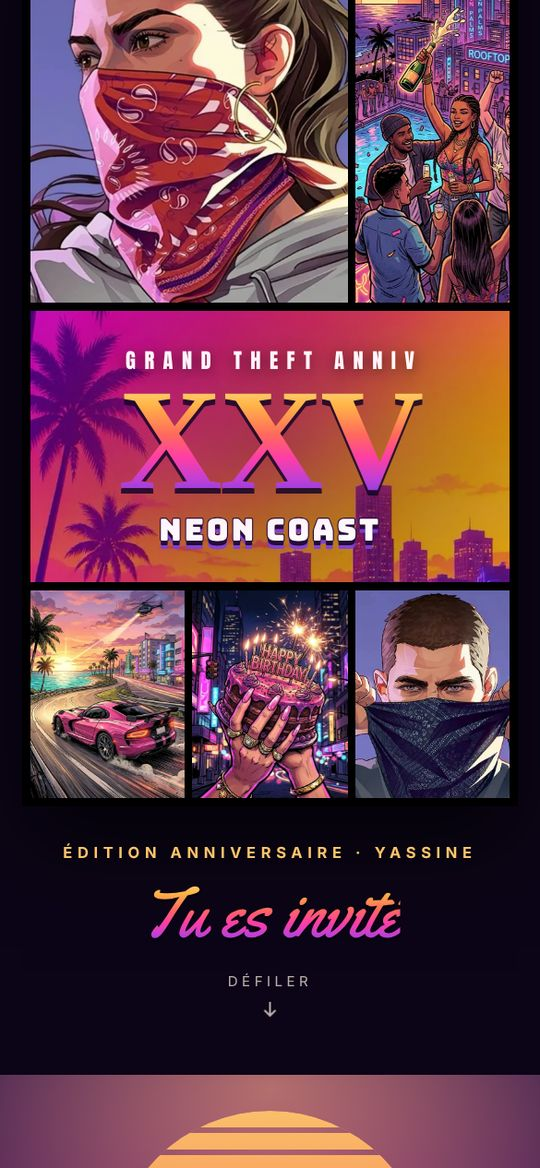
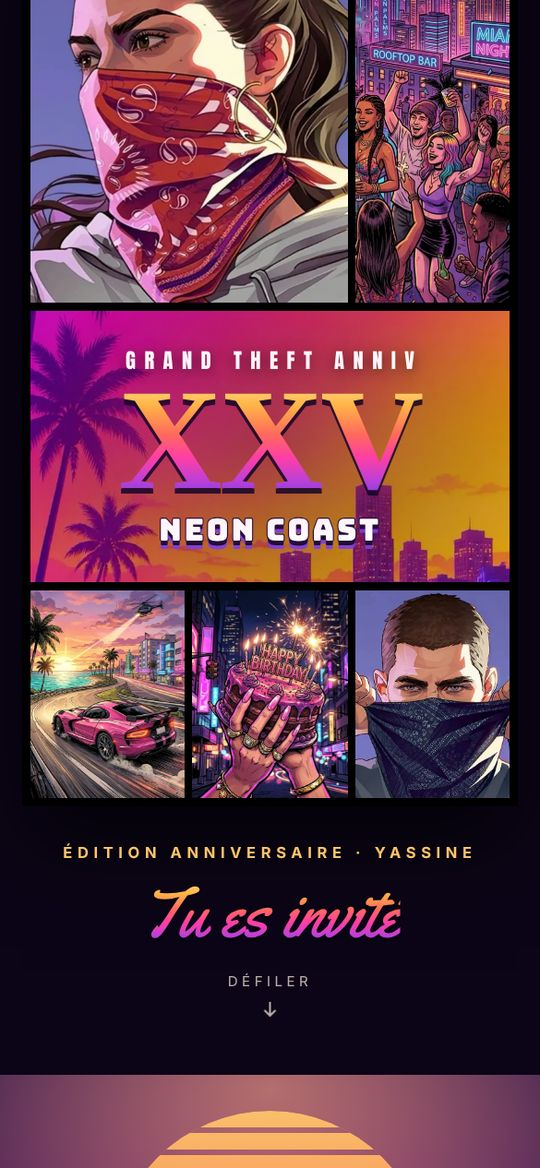
Neon Coast : bouteille retirée de la main de la femme (image de la fête recadrée)
Claude-Session: https://claude.ai/code/session_01JHbHXdBUaR2CiA6VEWaRD1

Changed region(s): [[0.6519, 0.0, 0.9481, 0.2774]]

diff --git a/templates/neon-coast.html b/templates/neon-coast.html
@@ -326,7 +326,7 @@ textarea.fld{min-height:84px;resize:vertical}
 <section class="scene" id="cover">
   <div class="mosaic" id="mosaic">
     <div class="pn b"><img src="/media/x/ddf686a85dc6c8.webp" alt="Illustration d'une femme au bandana rouge"></div>
-    <div class="pn p"><img src="/media/x/fbc256f7a50667.webp" alt="Fête sur un rooftop au néon" style="object-position:40% 50%"></div>
+    <div class="pn p"><img src="/media/x/e284c6a89f2a88.webp" alt="Fête sur un rooftop au néon" style="object-position:22% 50%"></div>
     <div class="lg"><img src="/media/x/3bf2f6064f8294.webp" alt="">
       <div class="lockup"><span class="gt">GRAND THEFT ANNIV</span><span class="num vi" data-age></span><span class="city">NEON COAST</span></div>
     </div>
